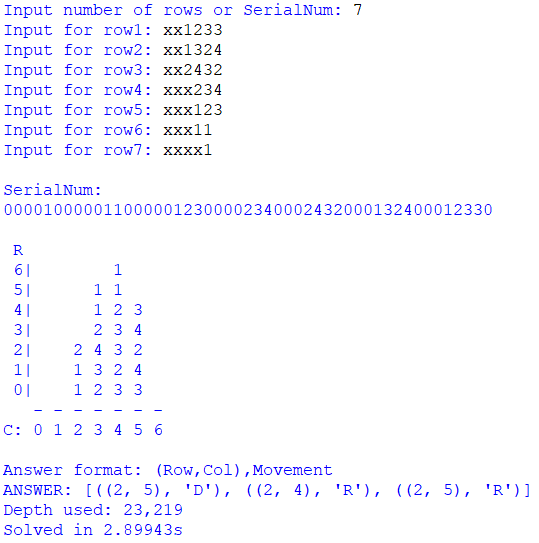
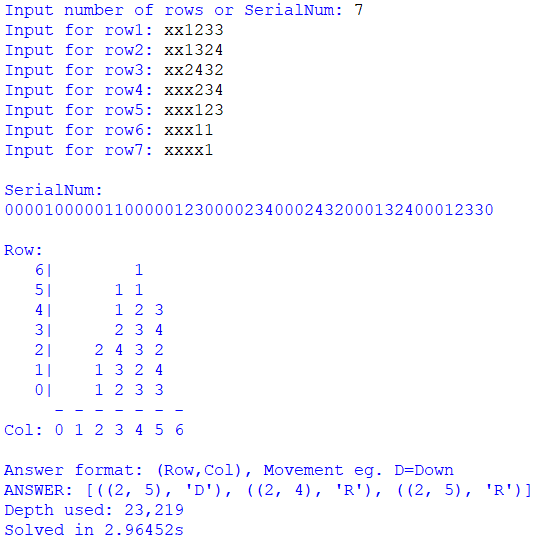
add BoxResult

diff --git a/boxClass.py b/boxClass.py
@@ -40,19 +40,19 @@ class Grid:
         
     def printer(self):
         self.gravity()
-        print(" R")
+        print("Row:")
         for rowDX in range(len(self.structure)):
             row = self.structure[rowDX]
             if row.count(0) == self.l: continue
-            strr = ' ' + str(self.h-rowDX-1) + '|'
+            strr = '   ' + str(self.h-rowDX-1) + '|'
             for c in row:
                 if c == 0: strr += ' '
                 else: strr += str(c)
                 strr += ' '
             strr += ' '
             print(strr)
-        print('   - - - - - - -  ')
-        print('C: 0 1 2 3 4 5 6  ')
+        print('     - - - - - - -  ')
+        print('Col: 0 1 2 3 4 5 6  ')
         print()
 
     def gravity(self):
@@ -190,7 +190,7 @@ class Grid:
                             depthCount += 1
                             if temp.valid():
                                 if temp.check():
-                                    print("Answer format: (Row,Col),Movement")
+                                    print("Answer format: (Row,Col), Movement eg. D=Down")
                                     print("ANSWER:",moveDict[gridID]+[((origTemp.h-1-i,j),direction)])
                                     print("Depth used:",f'{depthCount:,}')
                                     return
@@ -204,7 +204,6 @@ class Grid:
 import time
 
 r = input('Input number of rows or SerialNum: ')
-##r = '00000000000000000000000000000000000000000000012000002440001212000243300123110'
 if len(r) > 3:
     a = Grid(r)
 else:
